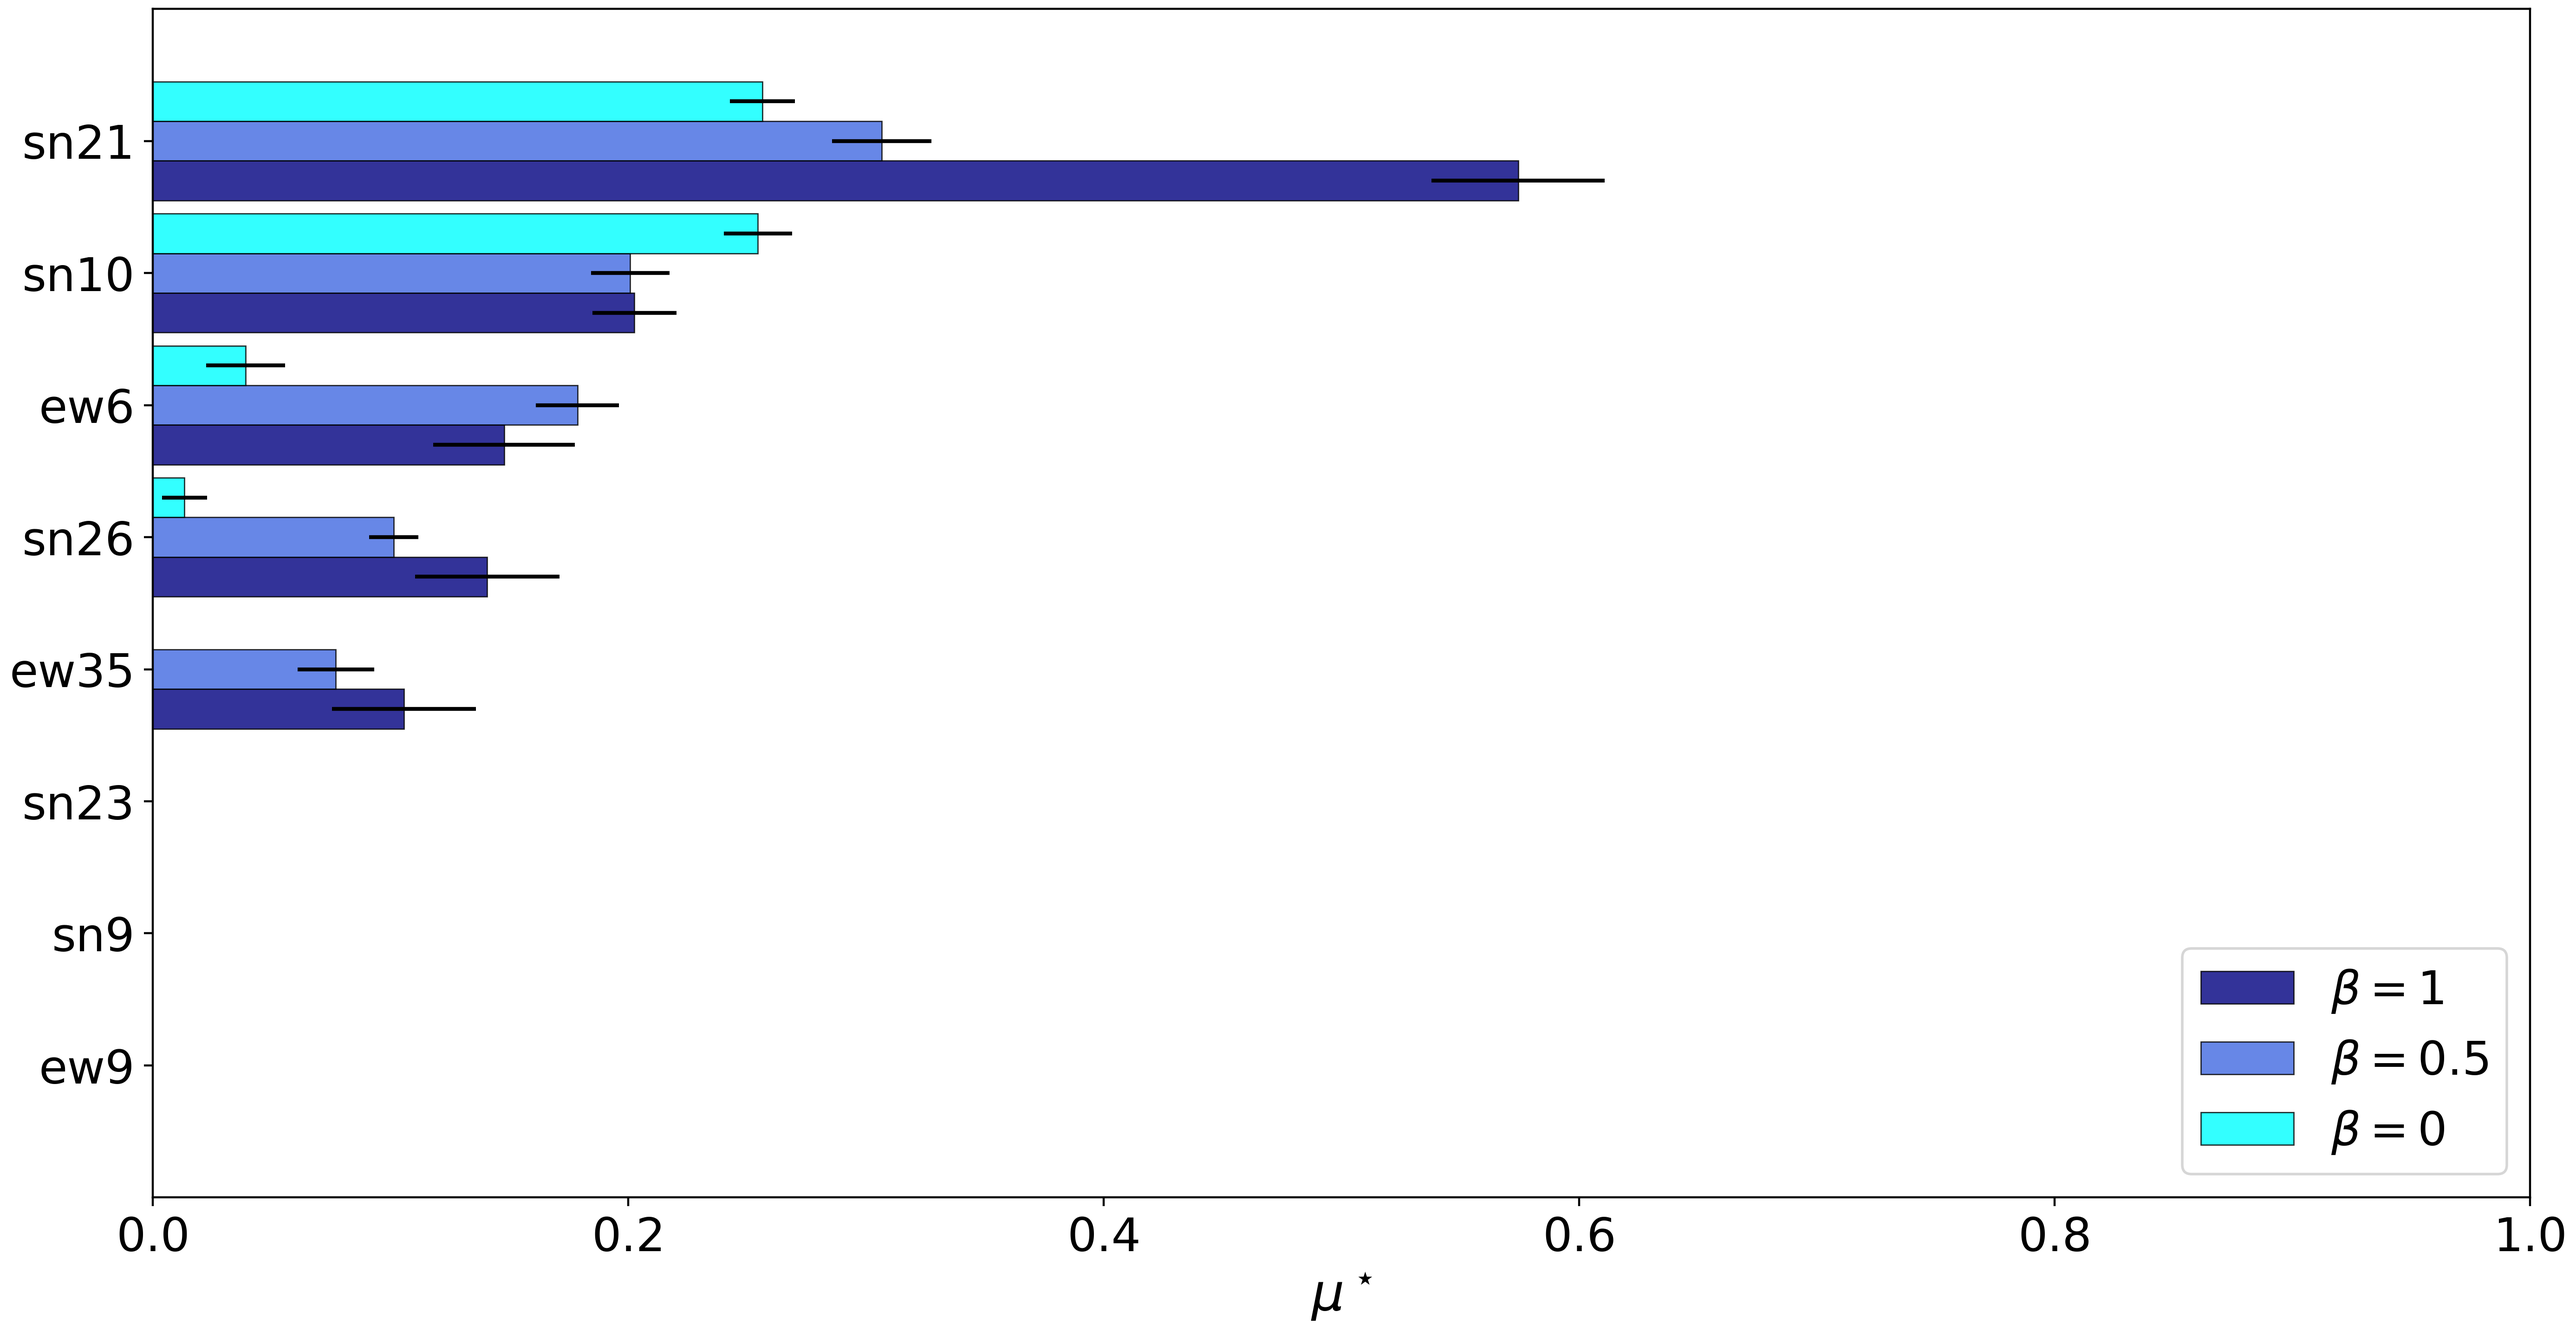
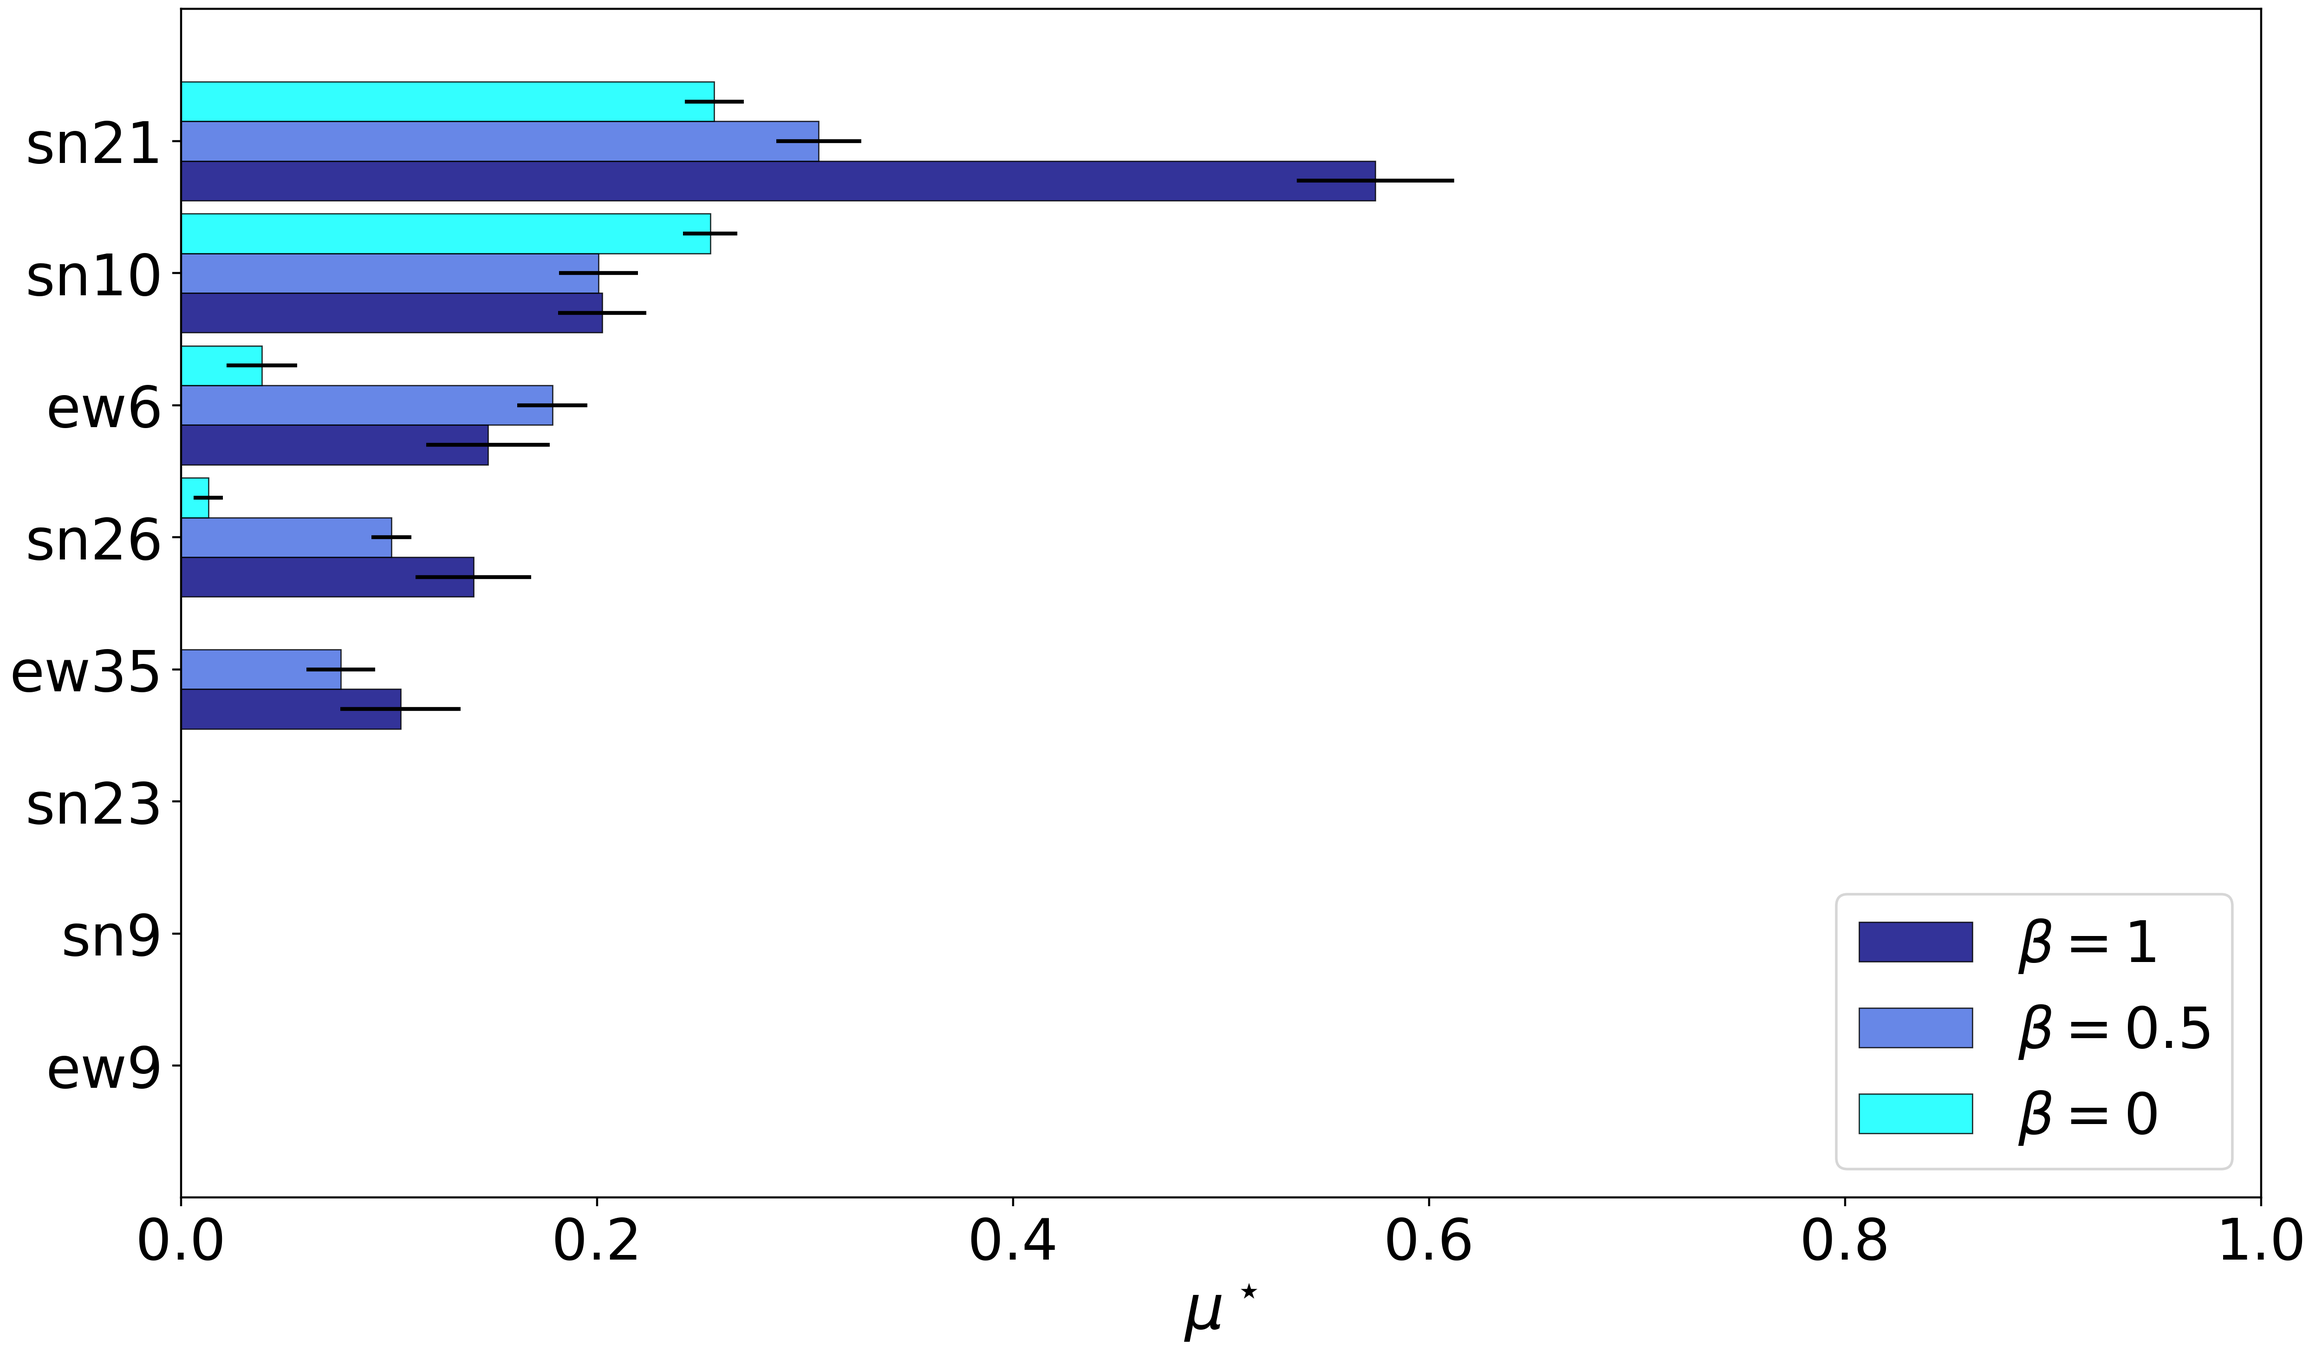
Updated visualization.

diff --git a/src/funct_plot.py b/src/funct_plot.py
@@ -313,8 +313,8 @@ def morris_horizontal_bar_plot(
 
     ax.set_yticks(y_pos)
     ax.set_yticklabels(plot_names)
-    ax.tick_params(axis='y', which='major', labelsize=16)
-    ax.tick_params(axis='x', which='major', labelsize=16)
+    ax.tick_params(axis='y', which='major', labelsize=22)
+    ax.tick_params(axis='x', which='major', labelsize=22)
     ax.set_xlabel(r'$\mu$' + unit, fontsize=18)
 
     ax.set_ylim(min(y_pos)-1, max(y_pos)+1)
@@ -326,7 +326,7 @@ def morris_covariance_plot(
     ax,
     Si,
     plotmu,
-    annotate_size=14,
+    annotate_size=24,
     opts=None,
     unit=''):
 
@@ -351,27 +351,30 @@ def morris_covariance_plot(
             ax.annotate(
                 txt,
                 (Si[plotmu][i], y[i]),
-                xytext=(Si[plotmu][i]*0.85, y[i]*0.85),
+                xytext=(Si[plotmu][i]*0.85, y[i]*0.90),
                 fontsize=annotate_size)
 
-        ax.set_ylabel(r'$\sigma$', fontsize=16)
+        ax.set_ylabel(r'$\sigma$', fontsize=22)
 
         ax.set_xlim(-1.0,1.0)
         ax.set_ylim(0.0,)
+        
+        ax.tick_params(axis='y', which='major', labelsize=22)
+        ax.tick_params(axis='x', which='major', labelsize=22)
 
         x_axis_bounds = np.array(ax.get_xlim())
 
         line1_p, = ax.plot(x_axis_bounds, x_axis_bounds, 'k-', c='maroon')
         line1_n, = ax.plot(x_axis_bounds, -x_axis_bounds, 'k-', c='maroon')
-        line2_p, = ax.plot(x_axis_bounds, 0.5 * x_axis_bounds, 'k--', c='maroon')
-        line2_n, = ax.plot(x_axis_bounds, -0.5 * x_axis_bounds, 'k--', c='maroon')
+        line2_p, = ax.plot(x_axis_bounds, 0.50 * x_axis_bounds, 'k--', c='maroon')
+        line2_n, = ax.plot(x_axis_bounds, -0.50 * x_axis_bounds, 'k--', c='maroon')
         line3_p, = ax.plot(x_axis_bounds, 0.1 * x_axis_bounds, 'k-.', c='maroon')
         line3_n, = ax.plot(x_axis_bounds, -0.1 * x_axis_bounds, 'k-.', c='maroon')
 
         ax.legend((line1_p, line2_p, line3_p), (r'$\sigma / {} = \pm 1.0$'.format(mu_type),
                                           r'$\sigma / {} = \pm 0.5$'.format(mu_type),
                                           r'$\sigma / {} = \pm 0.1$'.format(mu_type)),
-                  loc='lower right')
+                  loc='lower right', prop={'size': 24})
 
     else:
         y = Si['mu_star_conf']
@@ -379,7 +382,7 @@ def morris_covariance_plot(
                          **opts)
         ax.set_ylabel(r'$95\% CI$')
     
-    ax.set_xlabel(r'${}$ '.format(mu_type) + unit, fontsize=16)
+    ax.set_xlabel(r'${}$ '.format(mu_type) + unit, fontsize=24)
     ax.set_ylim(0-(0.01 * np.array(ax.get_ylim()[1])),)
 
     return out
@@ -397,18 +400,22 @@ def morris_sa_plot(
     # see API: https://salib.readthedocs.io/en/latest/_modules/SALib/plotting/morris.html
     
     # horizontal_bar_plot: https://jsbin.com/pucadowa/8/edit?html,js,output # plot_morris.horizontal_bar_plot(ax, Si)
-    fig = plt.figure(figsize=(16,8))  # unit of inch
+    fig = plt.figure(figsize=(14,8))  # unit of inch
     ax = plt.axes((0.15, 0.10, 0.80, 0.80))  # in range (0,1)
+
+    # remove the additional name substring.
+    Si['names'] =  [name.replace("U1_OK_d_wl_","") for name in Si['names']]
+
     morris_horizontal_bar_plot(ax, Si, plotmu='mu')
-    plt.savefig(dirs_fig + '/SA_mu_{}_morris_Si_indices_horbar_beta_{}.png'.format(rl, str(beta)), dpi=200)
+    plt.savefig(dirs_fig + '/SA_mu_{}_morris_Si_indices_horbar_beta_{}.png'.format(rl, str(beta)), dpi=200, bbox_inches='tight', pad_inches=0.05)
 
     # covariance_plot(ax, Si, opts=None, unit=''): 
     
     # covariance_plot: http://a.web.umkc.edu/andersonbri/Variance.html
-    fig = plt.figure(figsize=(16,8))  # unit of inch
+    fig = plt.figure(figsize=(14,8))  # unit of inch
     ax = plt.axes((0.15, 0.10, 0.80, 0.80))  # in range (0,1)
     morris_covariance_plot(ax, Si, plotmu='mu')
-    plt.savefig(dirs_fig + '/SA_mu_{}_morris_Si_indices_convar_beta_{}.png'.format(rl, str(beta)), dpi=200)
+    plt.savefig(dirs_fig + '/SA_mu_{}_morris_Si_indices_convar_beta_{}.png'.format(rl, str(beta)), dpi=200, bbox_inches='tight', pad_inches=0.05)
 
     # sample_histograms:
     # fig = plt.figure(figsize=(8,5))  # unit of inch

diff --git a/src/summarizeSensitivity.py b/src/summarizeSensitivity.py
@@ -15,10 +15,8 @@ from const_ibcrule import BUILDING_RULES, BUILDING_RULES_ALL
 # pd_X_stnl, X_α_β = stnd_nrml(pd_X)
 # X_stnl = pd_X_stnl.to_numpy()
 
-
 def _sort_Si(Si, key, sortby='mu_star'):
     return np.array([Si[key][x] for x in np.argsort(Si[sortby])])
-
 
 def morris_horizontal_bar_plot(
     ax,
@@ -74,21 +72,20 @@ def morris_horizontal_bar_plot(
                   **opts)
     
     if plotmu == 'mu_star':
-        ax.set_xlabel(r'$\mu^\star$' + unit, fontsize=20)
+        ax.set_xlabel(r'$\mu^\star$' + unit, fontsize=24)
         ax.set_xlim(0.0,x_max_abs)
     elif plotmu == 'mu':
-        ax.set_xlabel(r'$\mu$' + unit, fontsize=20)
+        ax.set_xlabel(r'$\mu$' + unit, fontsize=24)
         ax.set_xlim(-x_max_abs,x_max_abs)
 
     ax.set_yticks(y_pos)
     ax.set_yticklabels(plot_names)
     ax.set_ylim(min(y_pos)-1, max(y_pos)+1)
 
-    ax.tick_params(axis='y', which='major', labelsize=18)
-    ax.tick_params(axis='x', which='major', labelsize=18)
+    ax.tick_params(axis='y', which='major', labelsize=22)
+    ax.tick_params(axis='x', which='major', labelsize=22)
 
     return out
-
 
 # calculation.
 def summarizeSensi():
@@ -112,7 +109,7 @@ def summarizeSensi():
         
         for rl, ys in zip(BUILDING_RULES_ALL, Ys):
             
-            fig = plt.figure(figsize=(16,8))  # unit of inch
+            fig = plt.figure(figsize=(14,8))  # unit of inch
             ax = plt.axes((0.15, 0.10, 0.80, 0.80))  # in range (0,1)
             sa_indices = dict()
 
@@ -142,7 +139,7 @@ def summarizeSensi():
                 sa_indices.update({beta: Si})
 
                 bar.set_label(r'$\beta = {}$'.format(beta))
-                plt.legend(loc='lower right', prop={'size': 18})
+                plt.legend(loc='lower right', prop={'size': 22})
                 plt.savefig(DIRS_DATA_SA_FIG + r'\{nr}_{sort}_{failure}.png'.format(
                     nr=EXECUTION_NR,sort=plot_mu,failure=rl), dpi=400, bbox_inches='tight', pad_inches=0.05)
                 # here to do. axis label size and also the other figure.

diff --git a/src/main.py b/src/main.py
@@ -34,9 +34,9 @@ if __name__ == "__main__":
     #=================================#
     # EXECUTION_NR = 34
     # prepareSAVariants(sa_type = 'morris', set_dup_rvt = False)
-    # for beta in [1, 0.5, 0]: # final figures are for the last element.
-    #     testSensi_morris_weighted(build_design=False, calc_index=True, plot_index=True, beta_coef_reduction=beta)
-    summarizeSensi()
+    for beta in [1, 0.5, 0]: # final figures are for the last element.
+        testSensi_morris_weighted(build_design=False, calc_index=True, plot_index=True, beta_coef_reduction=beta) # plot for convar bar figures.
+    summarizeSensi() # plot for all rules mu and mu-star figures.
     
     #=================================#
     #                 ss              #
